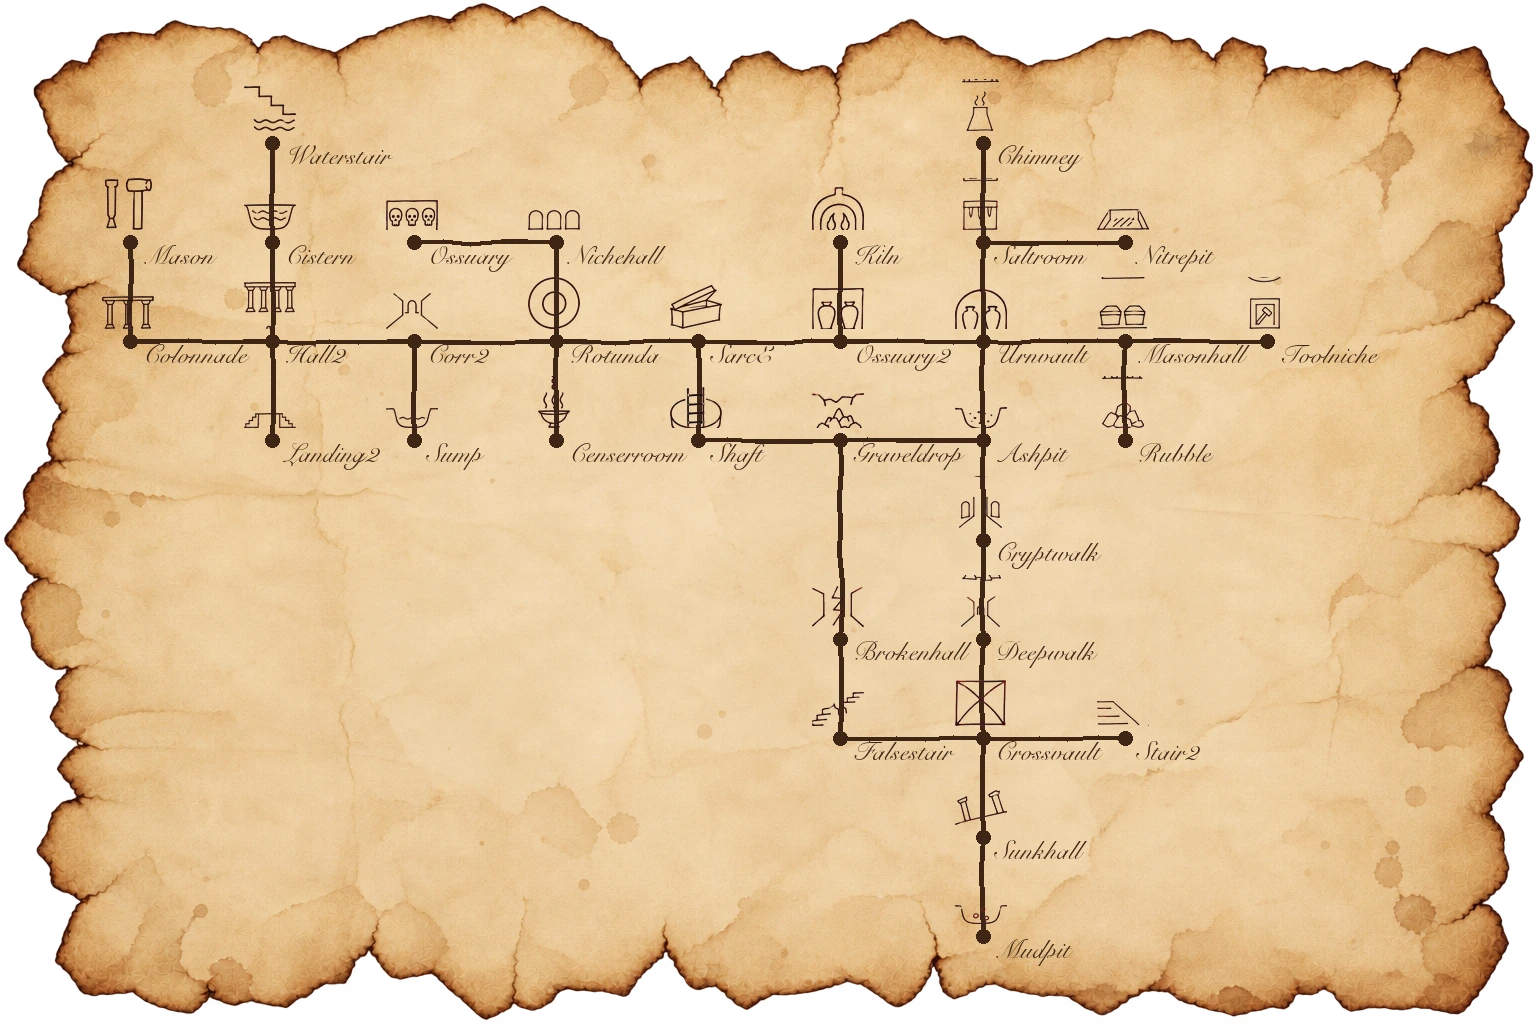
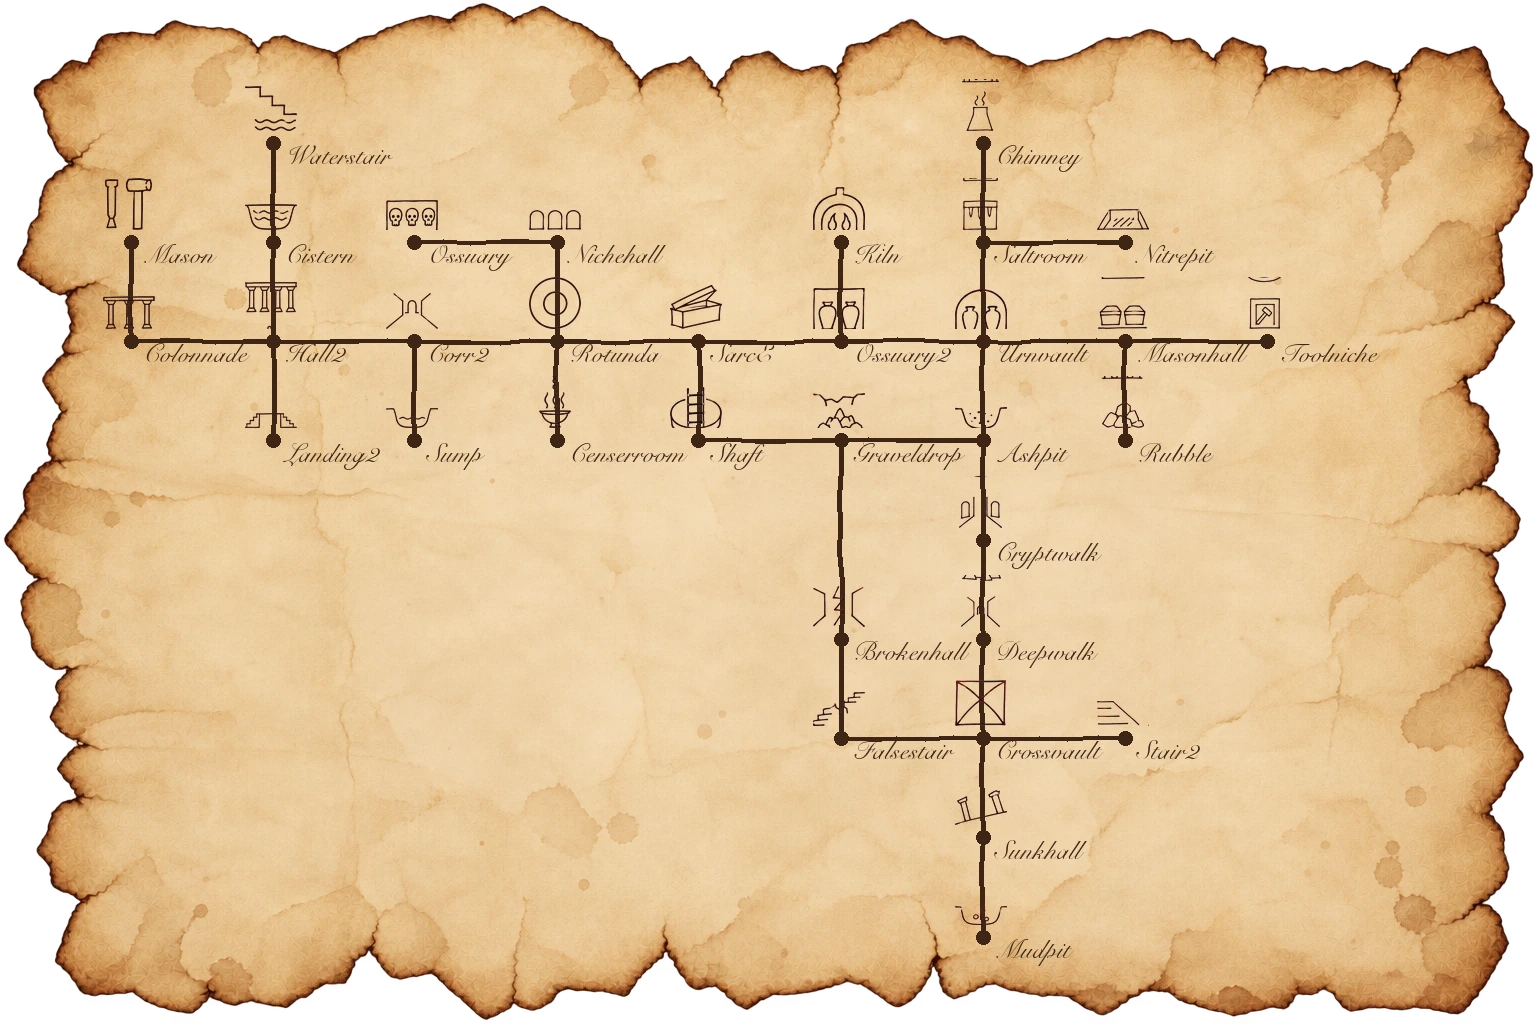
fix(小地圖): 紙的大小跟著那一層的內容走 —— 第三層 700×830，不再撐滿整張
Ray：「最後一層根本不用那麼大」

· 格距夾在 STEP_MAX(300,200) 以下、紙 ＝ 內容 ＋ 邊界
  ⇒ 7 格的第三層是 700×830；l1／l2 格多，照舊擠滿 1536×1024。
· ⚠ 邊界（MARG_PX）改成**固定像素**不是比例：比例邊界在小紙上會縮到放不下草書名 ——
  第一版 640 寬時右邊只剩 112px，`Lowaltar` 直接被裁掉一半。
  名字的長度不會因為紙小就變短，所以邊界必須是絕對值。

⚠ 程式端連帶：三張的長寬不一樣。spots 是比例所以照抄就好，
  但版面若寫死 3:2，第三層會被拉扁 —— 要依圖自己的比例擺。

diff --git a/tools/map_compose.py b/tools/map_compose.py
@@ -30,6 +30,15 @@ sys.path.insert(0, os.path.join(ROOT, 'tools'))
 from map_layout import POS, load            # 同一份版面、同一支讀取器（鐵律 7）
 
 W, H = 1536, 1024
+# ⚠ ver -1647（Ray：「最後一層根本不用那麼大」）：格距設上限，**紙跟著內容縮**。
+#   不設上限的話 7 格的第三層會被拉開撐滿整張紙（x 方向的格距 1137px）——
+#   小的一層本來就該是一張小圖，不是把幾個點攤到天涯海角。
+#   下限是為了不要縮到看不清圖示與草書名。
+STEP_MAX = (300, 200)          # 一格之間最多隔多遠（螢幕像素）
+# ⚠⚠ 邊界改成**固定像素**（由滿版 1536×1024 的比例換算而來）：
+#   比例邊界在小紙上會縮到放不下草書名 —— 實測 640 寬時右邊只剩 112px，
+#   `Lowaltar` 直接被裁掉一半。名字的長度不會因為紙小就變短，所以邊界要是絕對值。
+MARG_PX = dict(l=131, r=269, t=143, b=87)
 # ⚠ 四邊不對稱：草書名往**右**長，所以右邊要留最多；紙的撕邊也會吃掉一圈
 MARG = dict(l=0.085, r=0.175, t=0.140, b=0.085)
 ICON_PX = 52
@@ -37,7 +46,20 @@ NAME_PX = 26
 DOT_R   = 7                               # 紙的四周留白（比例）
 INK   = (62, 38, 22)
 
-def frac_positions(town, nodes=None):
+def sheet_size(town, nodes):
+    """依這一層的格網算出紙的大小：**內容 ＋ 固定像素的邊界**。
+
+    格距夾在 STEP_MAX 以下（小的一層不要被拉開撐滿），邊界是絕對值（名字放得下）。
+    滿版 1536×1024 是上限 —— 格多的那一層照舊擠滿整張紙。"""
+    pos = {k: v for k, v in POS[town].items() if k in nodes}
+    nc = len({c for c, _ in pos.values()}); nr = len({r for _, r in pos.values()})
+    cw = min((nc - 1) * STEP_MAX[0], 1536 - MARG_PX['l'] - MARG_PX['r'])
+    chh = min((nr - 1) * STEP_MAX[1], 1024 - MARG_PX['t'] - MARG_PX['b'])
+    return (int(cw + MARG_PX['l'] + MARG_PX['r']),
+            int(chh + MARG_PX['t'] + MARG_PX['b']))
+
+
+def frac_positions(town, nodes=None, size=None):
     """把 POS 的格網換算成圖上的比例座標。
 
     ⚠ **空的行與列會被壓掉**：POS 裡常有沒放格子的行（層與層之間的間隔），
@@ -47,9 +69,13 @@ def frac_positions(town, nodes=None):
     pos = {k: v for k, v in POS[town].items() if (nodes is None or k in nodes)}
     cs = sorted({c for c, _ in pos.values()}); rs = sorted({r for _, r in pos.values()})
     ci = {c: i for i, c in enumerate(cs)}; ri = {r: i for i, r in enumerate(rs)}
-    sx = (1 - MARG['l'] - MARG['r']) / max(1, len(cs)-1)
-    sy = (1 - MARG['t'] - MARG['b']) / max(1, len(rs)-1)
-    return {k: (MARG['l'] + ci[c]*sx, MARG['t'] + ri[r]*sy) for k, (c, r) in pos.items()}
+    # ⚠ 邊界用**這一張紙的**像素換算（-1647）：紙小的時候比例邊界放不下草書名
+    w_, h_ = size or (1536, 1024)
+    ml, mr = MARG_PX['l']/w_, MARG_PX['r']/w_
+    mt, mb = MARG_PX['t']/h_, MARG_PX['b']/h_
+    sx = (1 - ml - mr) / max(1, len(cs)-1)
+    sy = (1 - mt - mb) / max(1, len(rs)-1)
+    return {k: (ml + ci[c]*sx, mt + ri[r]*sy) for k, (c, r) in pos.items()}
 
 def edges_of(T):
     N = T['nodes']; e = set()
@@ -122,7 +148,9 @@ def main():
         bad = [k for k in only if k not in NALL]
         if bad: print('--only 裡有不存在的格：', bad); sys.exit(1)
     N = {k: NALL[k] for k in only} if only else NALL
-    F = frac_positions(args.town, set(N))        # ⚠ 只吃這一層（見 --only 的註解）
+    global W, H
+    W, H = sheet_size(args.town, set(N))         # ⚠ 紙跟著這一層的內容縮（-1647）
+    F = frac_positions(args.town, set(N), (W, H))   # ⚠ 只吃這一層（見 --only 的註解）
     miss = [k for k in N if k not in F]
     if miss: print('POS 少了：', miss); sys.exit(1)
     EDG = [e for e in edges_of(T) if e[0] in N and e[1] in N]   # 跨層的邊自動不畫

diff --git a/resources/background/_tomb_fill_worklist.md b/resources/background/_tomb_fill_worklist.md
@@ -112,6 +112,7 @@
 | `resources/map/map_tomb_l1.webp` ＋ `_spots_tomb_l1.json` | **21** | 一層（墓門～表層階梯） |
 | `resources/map/map_tomb_l2.webp` ＋ `_spots_tomb_l2.json` | **33** | 二層（二層梯廳～底層階梯） |
 | `resources/map/map_tomb_l3.webp` ＋ `_spots_tomb_l3.json` | **7** | 三層（三層梯廳／玄室前廊／側墓穴／石棺主室／骨坑／底層祭壇／廢坑道） |
+| | | ⚠ **三張不同大小**：l1／l2 是 1536×1024，**l3 只有 700×830** |
 | `resources/map/map_tomb.webp` ＋ `_spots_tomb.json` | 61 | **全圖版，留著當退路**（程式端還沒切三層之前照舊能跑） |
 
 ⚠⚠ **樓層是從拓樸算出來的，不是列名單**：把三條換層的邊
@@ -140,6 +141,11 @@
   一層，用全圖座標的話每張只佔紙的一小塊、第三層縮在角落（-1646 第一版就是這樣）。
   壓掉空行只改「畫在哪」、不改相對順序 ⇒ 方向與拓樸不受影響。
 ⚠ 跨層的邊**自動不畫**（`--only` 會濾掉），所以三張各自乾淨，不會有斷在紙邊的線。
+⚠⚠ **紙的大小跟著那一層的內容走**（ver -1647，Ray：「最後一層根本不用那麼大」）：
+  格距夾在 `STEP_MAX`(300,200) 以下、紙 ＝ 內容 ＋ 邊界 ⇒ 7 格的第三層是 **700×830**，
+  不是被拉開撐滿 1536×1024。l1／l2 格多，照舊擠滿整張紙。
+⚠⚠ 邊界（`MARG_PX`）是**固定像素**不是比例：比例邊界在小紙上會縮到放不下草書名 ——
+  實測 640 寬時右邊只剩 112px，`Lowaltar` 直接被裁掉一半。**名字不會因為紙小就變短。**
 
 ---
 
@@ -148,6 +154,8 @@
 1. **`script/town.js` 的 `map` 要能吃三張** —— 一層一張圖 ＋ 一組 spots，
    依玩家**現在站在哪一格**決定顯示哪一層。三層的節點清單就是那三個
    `_spots_tomb_l*.json` 的 key（21／33／7）。
+   ⚠ **三張的長寬不一樣**（l1/l2 1536×1024、l3 700×830）—— `spots` 是**比例**，
+     所以照抄就好；但版面若寫死了 3:2，第三層會被拉扁，要改成依圖自己的比例擺。
 2. **spots 一律照抄那三個 JSON** —— 一個數字都不要用眼睛估（-1145：圖上那顆點與
    那份數字是同一次算出來的）。舊的 34 筆全部作廢。
 3. ⚠ **還沒切三層之前照舊能跑**：`map_tomb.webp`（61 格全圖）與 `_spots_tomb.json` 留著。
